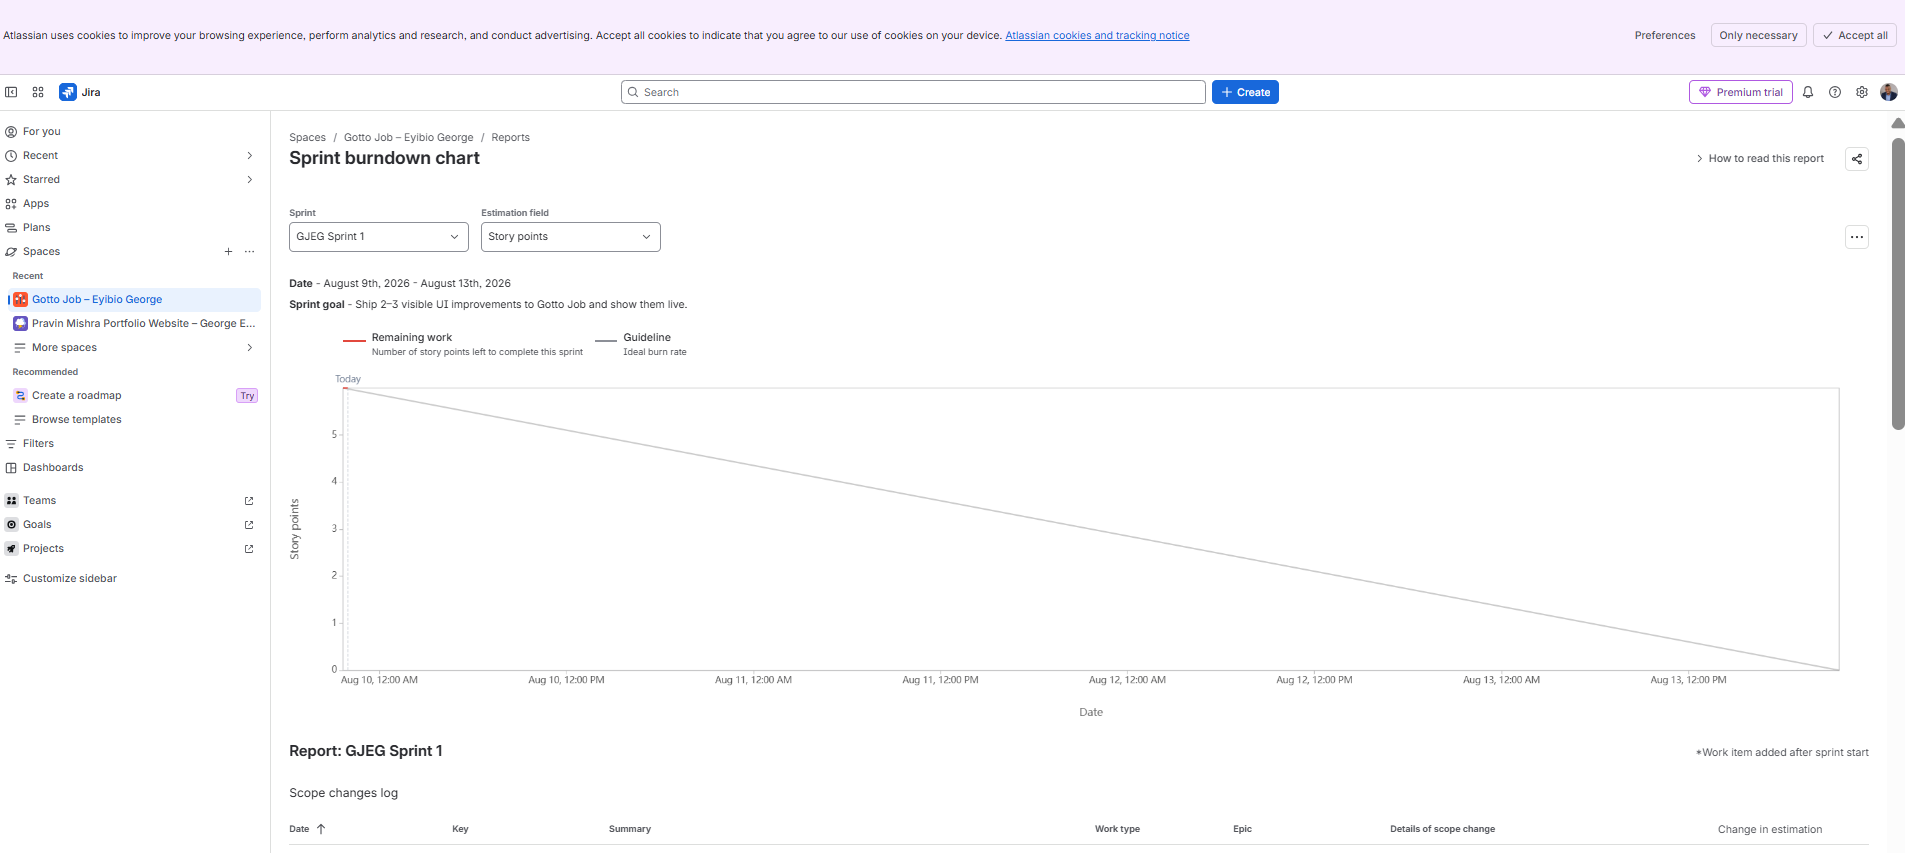
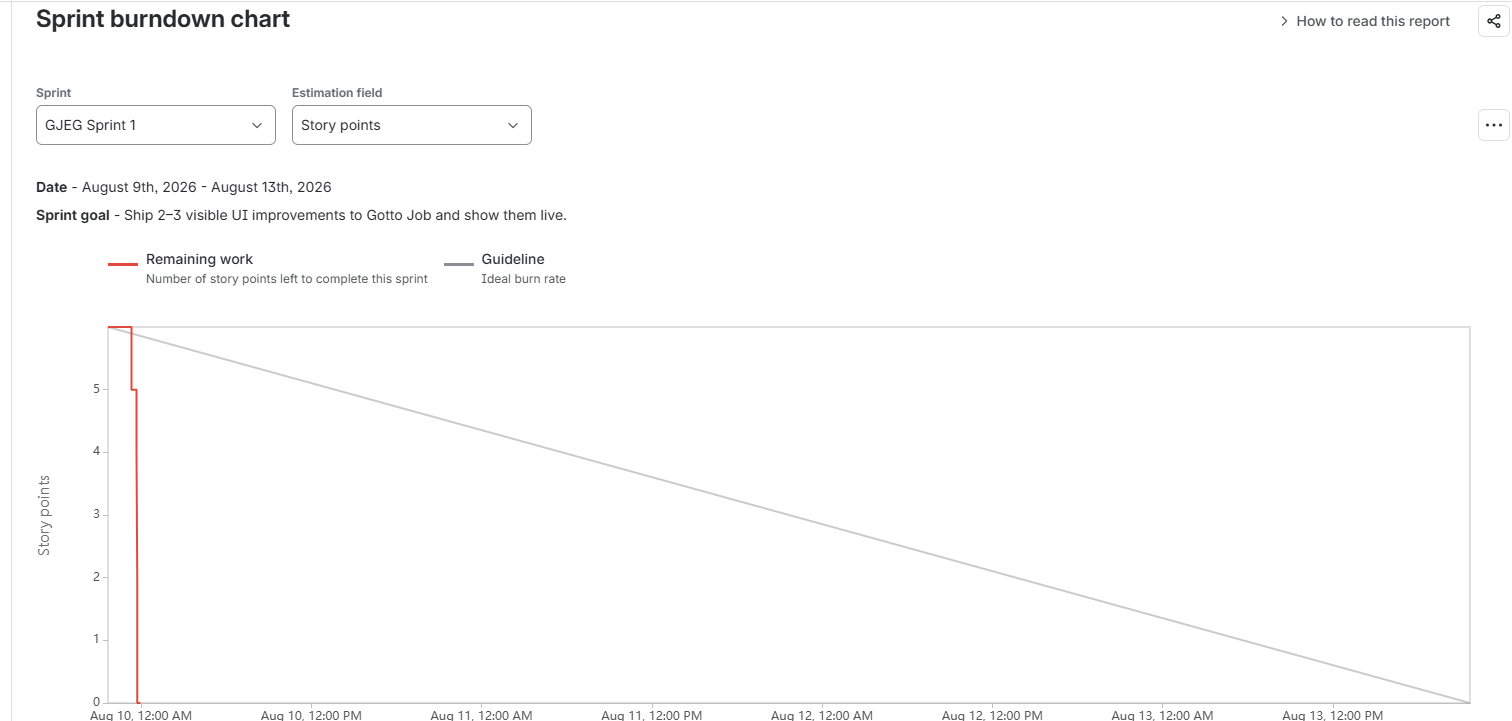
feat(main): linkedin screenshot and link added

diff --git a/week-05-devops-lifecycle/assignment-04-gotto-job-backlog-refinement-and-sprint-1-in-jira.md b/week-05-devops-lifecycle/assignment-04-gotto-job-backlog-refinement-and-sprint-1-in-jira.md
@@ -200,13 +200,13 @@ Publish a LinkedIn post about what you delivered, including your live URL, three
 
 Paste your LinkedIn post URL here:
 
-`Add your URL here`
+`https://www.linkedin.com/posts/george-eyibio-58207286_shipped-my-first-sprint-as-a-scrum-team-share-7492359177772752896--GiE/?utm_source=share&utm_medium=member_desktop&rcm=ACoAABIpp7IB2uLQWBwAPAfjOt0Din_uqvLdTAQ`
 
 ---
 
 #### Screenshot 14 — Published LinkedIn post
 
-Add your screenshot here.
+![](./screenshots/linkedinpost04.png)
 
 ---
 
